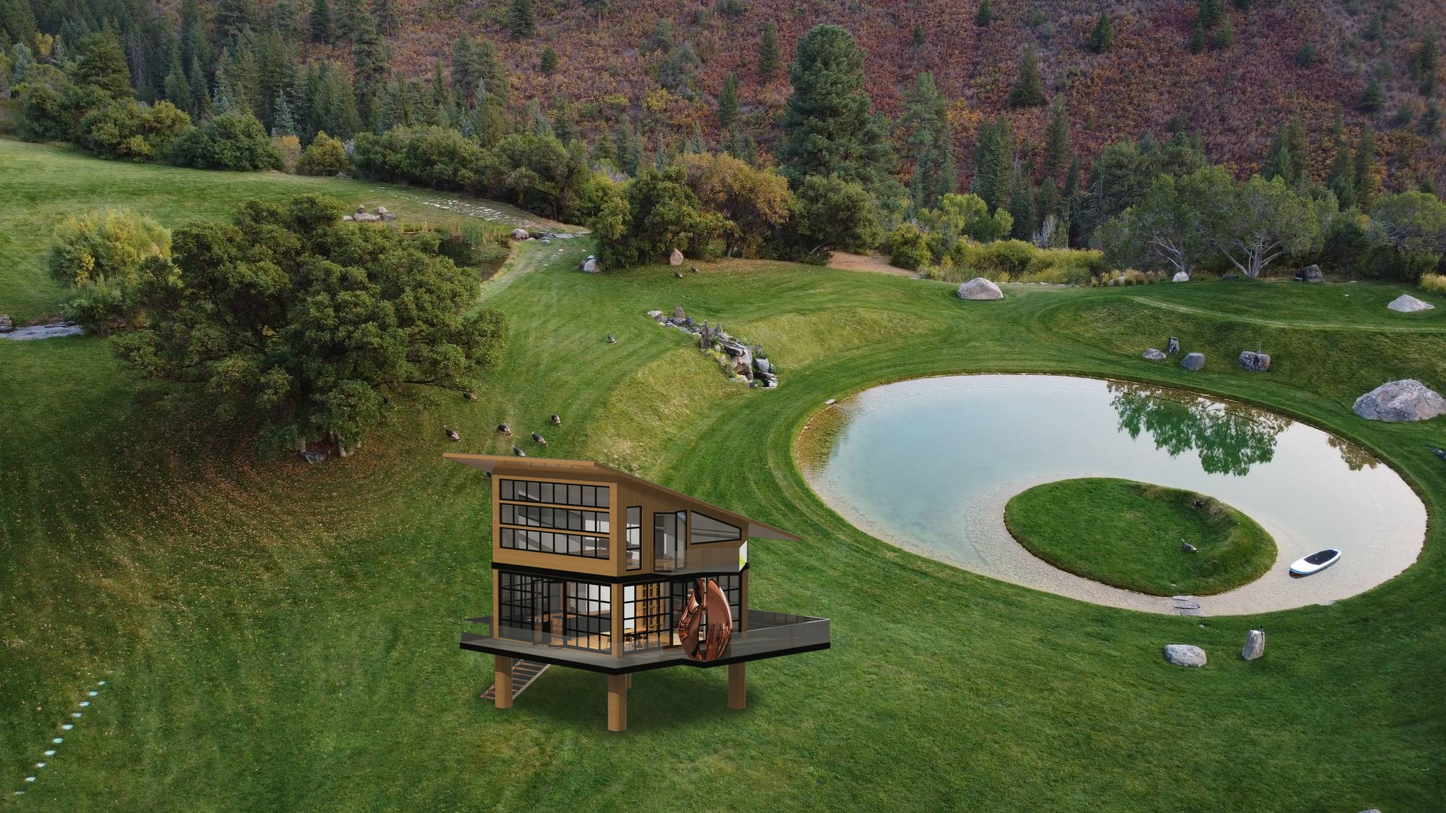
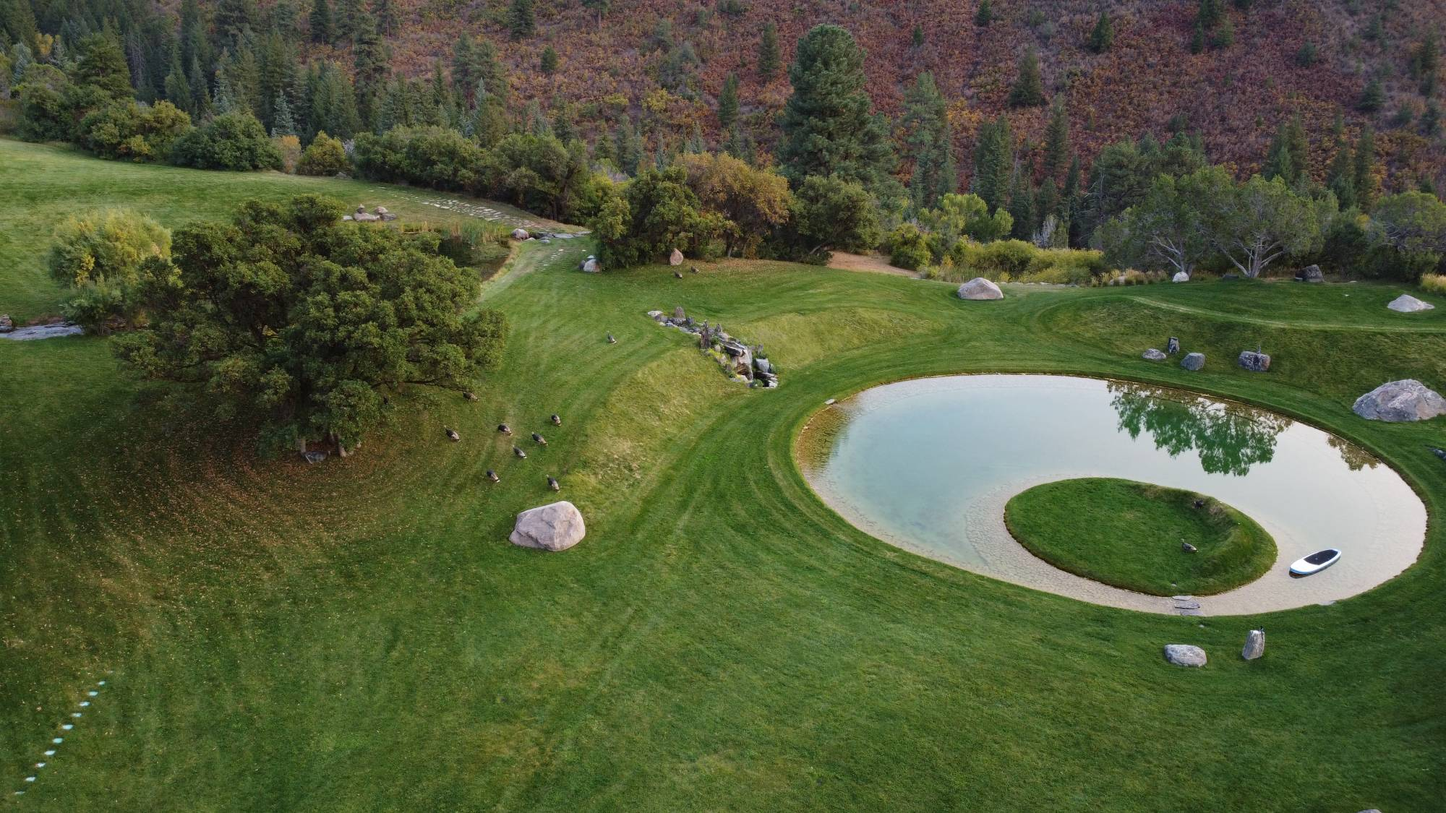
Loft House: add night, stair-side and landscape views
Claude-Session: https://claude.ai/code/session_01FRyJPBebUtKmxdzujR9oGm

Changed region(s): [[0.31, 0.56, 0.589, 0.9333]]

diff --git a/projects/loft-house.html b/projects/loft-house.html
@@ -40,16 +40,17 @@
   </section>
 
   <div class="shots">
-    <figure><img src="../images/projects/loft-house/landscape.jpg" alt="Loft House placed on a mountain meadow beside a round pond" loading="lazy"></figure>
     <figure><img src="../images/projects/loft-house/evening.jpg" alt="Loft House at dusk with lit gridded windows, glass-railed deck, and a copper sculpture" loading="lazy"></figure>
     <div class="row">
+      <figure><img src="../images/projects/loft-house/stair-side.jpg" alt="Loft House from the stair side, showing the open folding doors and floating exterior stair" loading="lazy"></figure>
       <figure><img src="../images/projects/loft-house/perspective.jpg" alt="Loft House perspective showing the corrugated shed roof raised on timber columns" loading="lazy"></figure>
-      <figure><img src="../images/projects/loft-house/rear.jpg" alt="Loft House from the rear, with the exterior stair rising to the deck and folding glass doors open" loading="lazy"></figure>
     </div>
     <div class="row">
+      <figure><img src="../images/projects/loft-house/night.jpg" alt="Loft House at night against a dark background" loading="lazy"></figure>
       <figure><img src="../images/projects/loft-house/elevation.jpg" alt="Loft House side elevation with clerestory windows and exterior stair" loading="lazy"></figure>
-      <figure><img src="../images/projects/loft-house/deck-detail.jpg" alt="Close-up of the lower level: folding glass doors open onto the deck, kitchen and dining visible inside" loading="lazy"></figure>
     </div>
+    <figure><img src="../images/projects/loft-house/deck-detail.jpg" alt="Close-up of the lower level: folding glass doors open onto the deck, kitchen and dining visible inside" loading="lazy"></figure>
+    <figure><img src="../images/projects/loft-house/landscape.jpg" alt="Aerial photo of a mountain meadow with a circular pond and grass island" loading="lazy"></figure>
   </div>
 
   <nav class="pager" aria-label="Projects">
